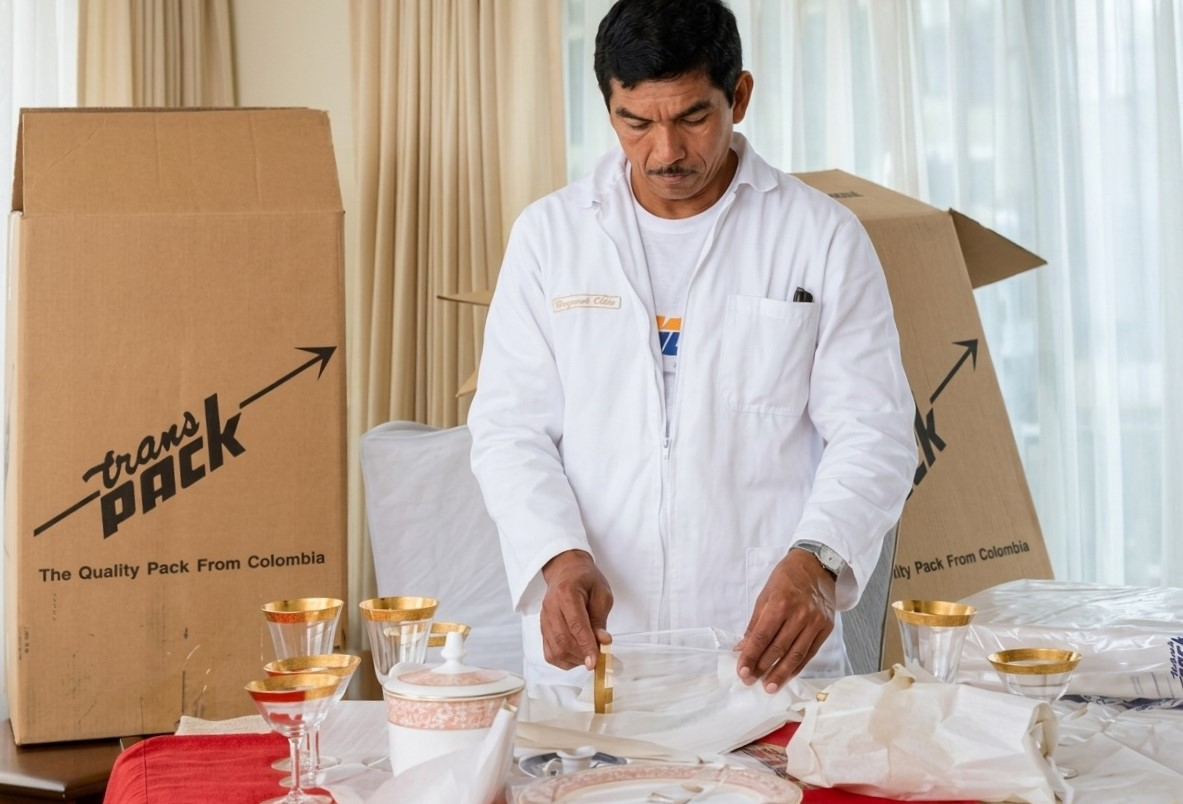
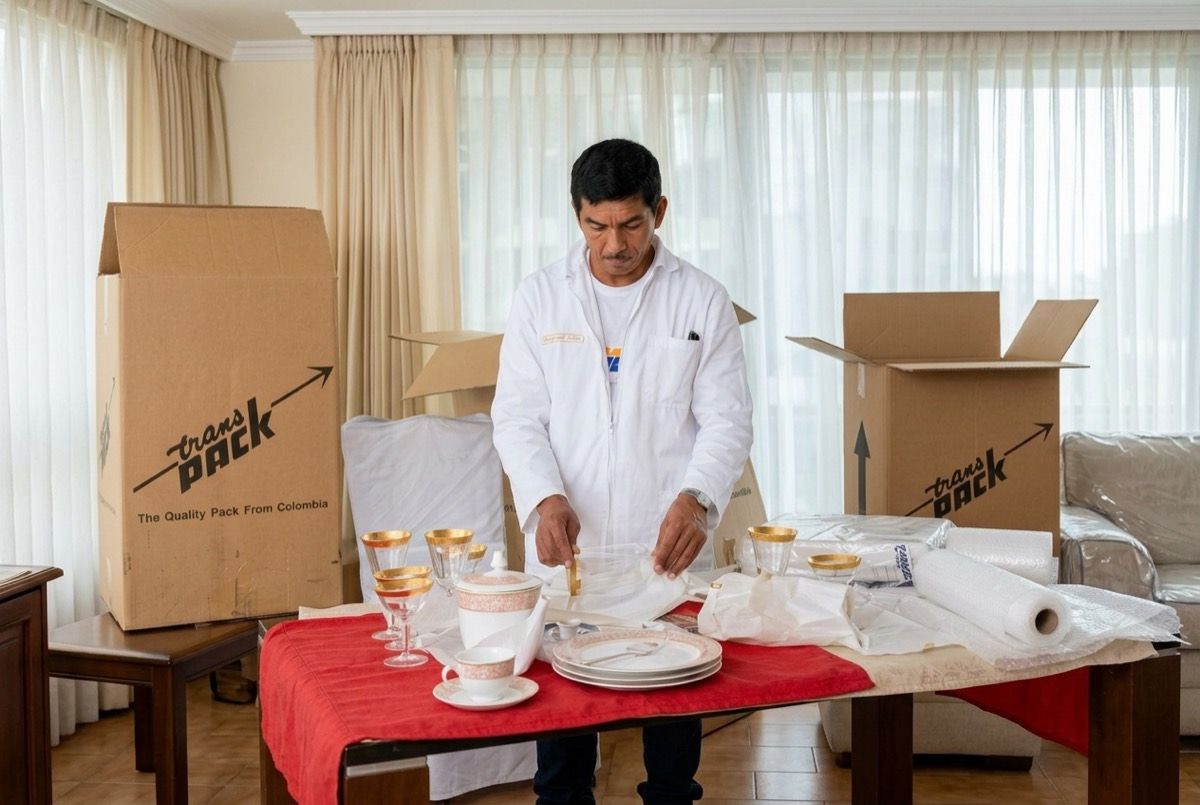
Portada con la foto nueva del embalador sin cortarlo; galería con márgenes y sin títulos sobre las fotos; fondo con líneas y cubos tenues detrás del contenido

diff --git a/src/components/home/Hero.tsx b/src/components/home/Hero.tsx
@@ -10,7 +10,7 @@ import { Bi, btn } from "@/components/ui";
 import { container } from "@/components/ui/layout";
 import headerImg from "@/assets/images/img-header.jpg";
 
-// Portada (nov. 2026): la foto img-header.jpg a pantalla completa, de borde a
+// Portada (nov. 2026): la foto img-header.jpg (embalador con una vajilla) a pantalla completa, de borde a
 // borde y también detrás de la cabecera (que flota sobre ella, ver Header), con
 // un degradado oscuro desde la izquierda y desde arriba para que el titular y el
 // menú se lean. Reemplazó al mapa animado (Globe). Al pie, los clientes y las
@@ -51,35 +51,38 @@ export function Hero() {
       {/* Foto a pantalla completa, también detrás de la cabecera fija */}
       <div className="relative isolate flex min-h-[100svh] items-center overflow-hidden bg-[#0D0F33] pb-16 pt-[150px] md:pt-[180px] lg:pb-20">
         {/* Foto a sangre detrás de la cabecera transparente (estilo pedido por el
-            cliente). El señor tiene la cabeza en el borde superior de la foto:
-            la foto nítida baja hasta quedar bajo la cabecera, para que el menú no
-            le tape la cara, y arriba la misma foto desenfocada llena el espacio
-            detrás del menú, así se ve continua */}
+            cliente). La foto nítida baja hasta quedar bajo la cabecera, para que
+            el menú no tape al embalador, y la misma foto desenfocada llena el
+            espacio de atrás, así se ve continua. Foto de la vajilla (nov. 2026):
+            el embalador está en el centro de la foto; en escritorio la foto
+            nítida empieza al 28 % del ancho para que él quede a la derecha,
+            completo y fuera del texto, y su borde izquierdo se funde con la
+            desenfocada (.hero-photo-mask) */}
         <img
           src={headerImg}
           alt=""
           aria-hidden="true"
-          width={1183}
-          height={804}
+          width={1200}
+          height={805}
           decoding="async"
-          className="absolute inset-0 -z-30 h-full w-full scale-110 object-cover object-[72%_0%] blur-2xl"
+          className="absolute inset-0 -z-30 h-full w-full scale-110 object-cover object-[50%_30%] blur-2xl"
         />
-        <div className="absolute inset-x-0 bottom-0 top-[100px] -z-20 md:top-[124px] wide:top-[136px]">
+        <div className="absolute inset-x-0 bottom-0 top-[100px] -z-20 md:top-[124px] lg:left-[28%] wide:top-[136px]">
           <img
             src={headerImg}
             alt={t.imageAlt}
-            width={1183}
-            height={804}
+            width={1200}
+            height={805}
             fetchPriority="high"
             decoding="async"
-            className="h-full w-full object-cover object-[72%_0%] [mask-image:linear-gradient(180deg,transparent_0,#000_40px)]"
+            className="hero-photo-mask h-full w-full object-cover object-[51%_10%]"
           />
         </div>
         {/* Degradado oscuro desde la izquierda (titular) y desde arriba (menú).
             En celular, el texto va sobre toda la foto: más parejo */}
         <div
           aria-hidden="true"
-          className="pointer-events-none absolute inset-0 -z-10 bg-[linear-gradient(90deg,rgba(13,15,51,.85)_0%,rgba(13,15,51,.7)_28%,rgba(13,15,51,.32)_46%,rgba(13,15,51,0)_62%)] max-lg:bg-[linear-gradient(180deg,rgba(13,15,51,.55)_0%,rgba(13,15,51,.72)_45%,rgba(13,15,51,.85)_100%)]"
+          className="pointer-events-none absolute inset-0 -z-10 bg-[linear-gradient(90deg,rgba(13,15,51,.85)_0%,rgba(13,15,51,.7)_28%,rgba(13,15,51,.32)_44%,rgba(13,15,51,0)_56%)] max-lg:bg-[linear-gradient(180deg,rgba(13,15,51,.55)_0%,rgba(13,15,51,.72)_45%,rgba(13,15,51,.85)_100%)]"
         />
         <div
           aria-hidden="true"

diff --git a/src/components/home/Gallery.tsx b/src/components/home/Gallery.tsx
@@ -8,8 +8,12 @@ import { useMotion } from "@/hooks/useMotion";
 // en sentidos opuestos con el scroll (nov. 2026, estilo unitedcarriers; sin
 // fijar la sección). Las fotos verticales ("tall") van más angostas. Cada fila
 // repite sus fotos para cubrir el ancho mientras se mueve (la copia va oculta a
-// los lectores de pantalla). Al pasar el cursor, la foto se acerca y sube su
-// leyenda. Con movimiento reducido, las filas quedan quietas.
+// los lectores de pantalla). Al pasar el cursor, la foto se acerca (sin
+// leyenda encima desde nov. 2026; la descripción queda en el alt). Con movimiento reducido, las filas quedan quietas.
+// Con márgenes (nov. 2026, pedido del equipo): las filas ya no van de borde a
+// borde de la pantalla, sino dentro del ancho del contenido (el de la
+// cabecera), en un recuadro con las esquinas redondeadas como las fotos; sin
+// difuminado en los lados (no gustó).
 export function Gallery() {
   const { tr } = useLang();
   const t = galleryText(tr);
@@ -22,7 +26,12 @@ export function Gallery() {
     m.parallax(b, el, { xPercent: -22 }, { xPercent: -4 }, { scrub: 0.5 });
   });
   return (
-    <section ref={ref} aria-label={t.label} className="grid gap-3 overflow-hidden py-3" dir="ltr">
+    <section
+      ref={ref}
+      aria-label={t.label}
+      className="mx-auto my-3 grid w-[min(100%-32px,1200px)] gap-3 overflow-hidden rounded-[20px] wide:w-[min(100%-120px,1320px)]"
+      dir="ltr"
+    >
       {rows.map((row, r) => (
         <div key={r} data-gallery-row className="flex w-max gap-3">
           {[0, 1].map((copy) =>
@@ -41,9 +50,6 @@ export function Gallery() {
                   loading="lazy"
                   className="h-full w-full object-cover transition-transform duration-700 ease-out group-hover:scale-[1.03] motion-reduce:transition-none motion-reduce:group-hover:scale-100"
                 />
-                <figcaption className="absolute inset-x-0 bottom-0 translate-y-2 bg-gradient-to-t from-tinta/85 to-transparent px-4 pb-3.5 pt-10 text-[0.88rem] font-semibold text-white opacity-0 transition-all duration-500 group-hover:translate-y-0 group-hover:opacity-100">
-                  {g.caption}
-                </figcaption>
               </figure>
             )),
           )}

diff --git a/src/styles/index.css b/src/styles/index.css
@@ -973,3 +973,48 @@ html.tp-zoho-open #tp-zoho-frame {
     height: auto;
   }
 }
+
+/* Adornos de fondo (RouteLines e IsoCubes): plenos en los márgenes y muy
+   tenues en la franja del contenido (hasta 1320 px), para que se vean como
+   textura de fondo sin competir con textos ni íconos (pedido del equipo,
+   nov. 2026). La transición es suave. */
+.bg-margins-only {
+  --clear: 640px;
+  --fade: 140px;
+  --inside: rgb(0 0 0 / 0.22);
+  mask-image: linear-gradient(
+    90deg,
+    #000 0,
+    #000 calc(50% - var(--clear) - var(--fade)),
+    var(--inside) calc(50% - var(--clear)),
+    var(--inside) calc(50% + var(--clear)),
+    #000 calc(50% + var(--clear) + var(--fade))
+  );
+  -webkit-mask-image: linear-gradient(
+    90deg,
+    #000 0,
+    #000 calc(50% - var(--clear) - var(--fade)),
+    var(--inside) calc(50% - var(--clear)),
+    var(--inside) calc(50% + var(--clear)),
+    #000 calc(50% + var(--clear) + var(--fade))
+  );
+}
+
+/* Foto nítida de la portada (Hero): se funde arriba, bajo la cabecera, y en
+   escritorio también por su borde izquierdo con la copia desenfocada */
+.hero-photo-mask {
+  mask-image: linear-gradient(180deg, transparent 0, #000 40px);
+  -webkit-mask-image: linear-gradient(180deg, transparent 0, #000 40px);
+}
+@media (min-width: 64rem) {
+  .hero-photo-mask {
+    mask-image:
+      linear-gradient(180deg, transparent 0, #000 40px),
+      linear-gradient(90deg, transparent 0, #000 18%);
+    mask-composite: intersect;
+    -webkit-mask-image:
+      linear-gradient(180deg, transparent 0, #000 40px),
+      linear-gradient(90deg, transparent 0, #000 18%);
+    -webkit-mask-composite: source-in;
+  }
+}

diff --git a/src/components/layout/RouteLines.tsx b/src/components/layout/RouteLines.tsx
@@ -10,7 +10,8 @@ import type { CSSProperties } from "react";
 // fija DETRÁS de todo el contenido (z-index -1, sobre el blanco del body), así
 // textos, tarjetas e imágenes siempre quedan encima; se ve donde la sección no
 // tiene fondo propio (por eso las secciones blancas no llevan bg-white).
-// Decorativa (aria-hidden, sin clics). Desde 1024 px; con
+// Solo se ve en los márgenes laterales (.bg-margins-only): nunca detrás del
+// contenido. Decorativa (aria-hidden, sin clics). Desde 1024 px; con
 // movimiento reducido quedan las rutas quietas, sin el punto.
 type Route = {
   d: string;
@@ -75,7 +76,7 @@ export function RouteLines() {
       aria-hidden="true"
       viewBox="0 0 1440 900"
       preserveAspectRatio="xMidYMid slice"
-      className="route-lines pointer-events-none fixed inset-0 -z-10 hidden h-full w-full lg:block"
+      className="route-lines bg-margins-only pointer-events-none fixed inset-0 -z-10 hidden h-full w-full lg:block"
       fill="none"
     >
       {ROUTES.map((r, i) => {

diff --git a/src/components/layout/IsoCubes.tsx b/src/components/layout/IsoCubes.tsx
@@ -29,7 +29,7 @@ export function IsoCubes() {
   return (
     <div
       aria-hidden="true"
-      className="pointer-events-none fixed inset-0 -z-10 hidden min-[1360px]:block"
+      className="bg-margins-only pointer-events-none fixed inset-0 -z-10 hidden min-[1360px]:block"
     >
       {PIECES.map((p, i) => (
         <div
